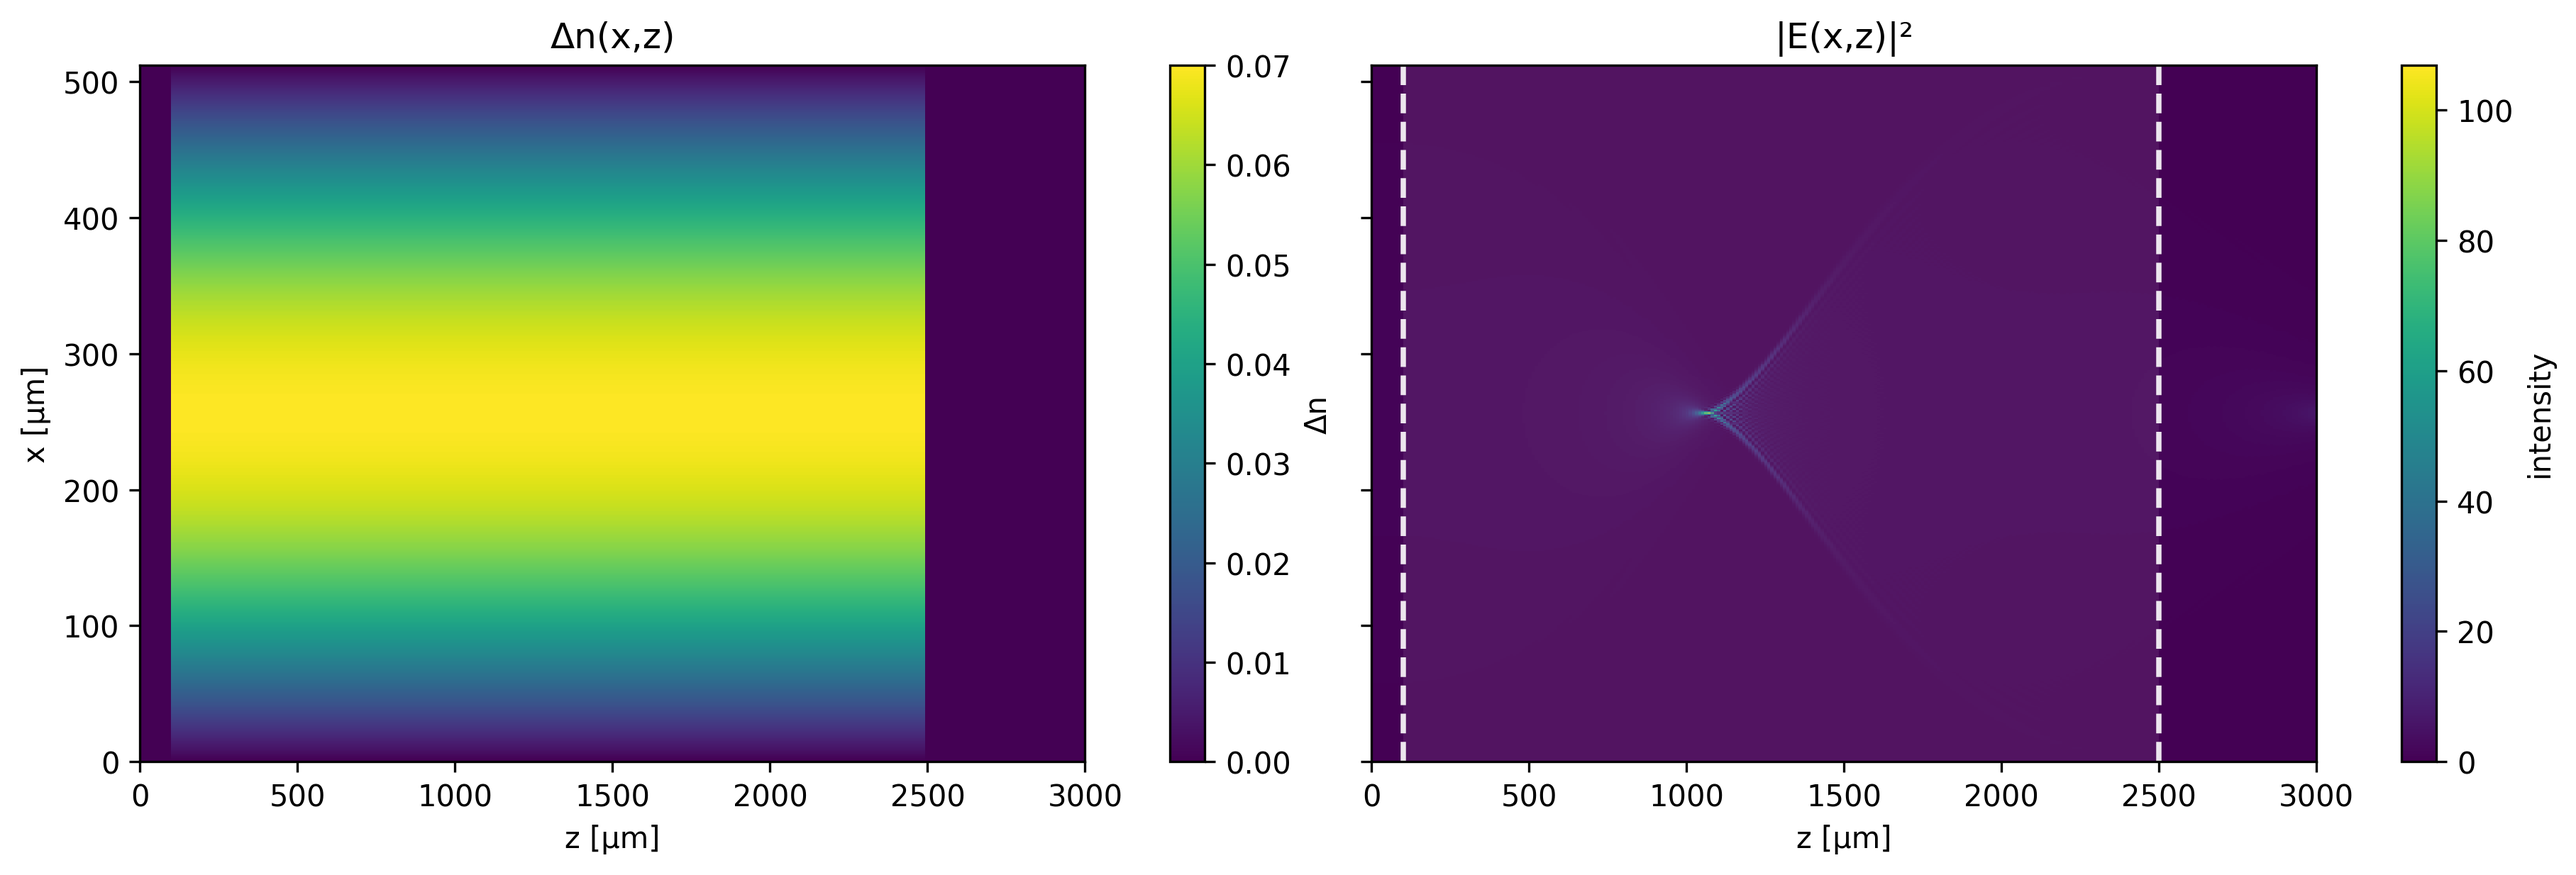
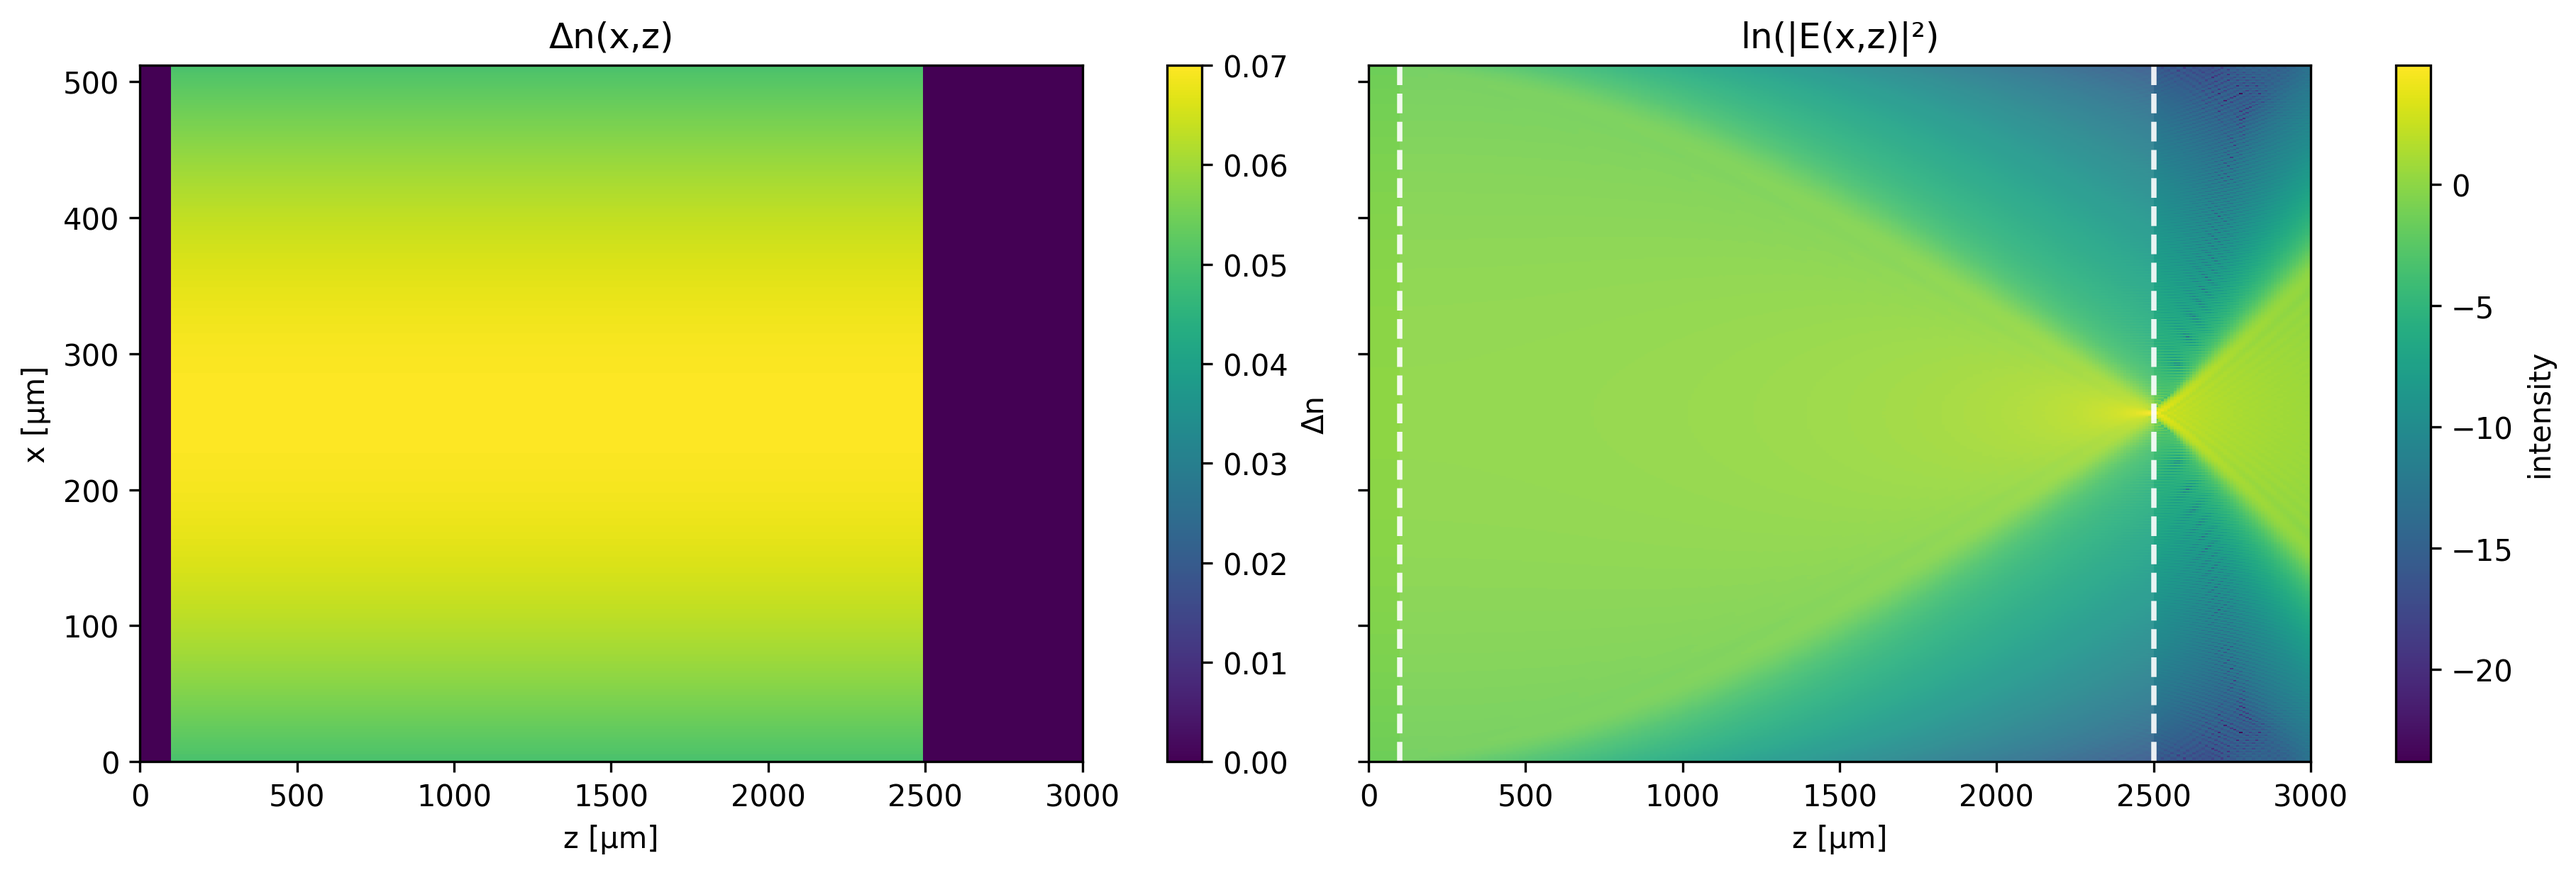
v0.1.3

diff --git a/beamprop_pkg/beamprop/fields.py b/beamprop_pkg/beamprop/fields.py
@@ -47,14 +47,46 @@ def grin_prism_n_xz(X, Z, n0=1.5, **kw):
     return n0 + grin_prism_dn_xz(X, Z, **kw)
 
 
-def grin_lens_dn_xz(
-    X, Z, Lx, amp=0.07, z_center=1300e-6, z_width=2400e-6, x_center=0.0
-):
+# def grin_lens_dn_xz(
+#     X, Z, Lx, amp=0.07, z_center=1300e-6, z_width=2400e-6, x_center=0.0
+# ):
+#     """
+#     Δn(x,z) = amp * cos(2*pi*x/Lx) * rect((z - z_center)/z_width)
+#     X, Z: meshgrids in meters (shape [nx, nz])
+#     Lx: full x-extent (e.g., 200e-6 for x ∈ [-100e-6, +100e-6])
+#     """
+#     cos_ramp = amp * np.cos(2 * np.pi * (X - x_center) / Lx)
+#     window = rect((Z - z_center) / z_width)
+#     return cos_ramp * window
+
+
+def grin_lens_dn_xz_cosine(X, Z, z_center, z_width, n_glass, dn0, x_center):
+    # compensates for dispersive effects
+    g = np.pi / (2.0 * z_width)
+    a = g * np.sqrt(n_glass / dn0)
+    rod = (np.abs((Z - z_center) / z_width) <= 0.5).astype(float)
+    dn = dn0 * np.cos(a * (X - x_center)) * rod  # Δn relative to n_ref
+    return dn
+
+
+# def grin_lens_dn_xz(
+#     X, Z, Lx, amp=0.07, z_center=1300e-6, z_width=2400e-6, x_center=0.0
+# ):
+#     # choose 'a' so that the rod length z_width is a quarter-pitch
+#     n0 = 1.0
+#     g = np.pi / (2.0 * z_width)  # quarter-pitch focus at exit
+#     a = g * np.sqrt(n0 / amp)  # link cosine to parabolic GRIN
+#     cos_ramp = amp * np.cos(a * (X - x_center))  # <-- use 'a', NOT 2π/Lx
+#     window = rect((Z - z_center) / z_width)
+#     return cos_ramp * window
+
+
+def nref_grid_from_rod(X, Z, z_center, z_width, n_glass, n_air=1.0):
     """
-    Δn(x,z) = amp * cos(2*pi*x/Lx) * rect((z - z_center)/z_width)
-    X, Z: meshgrids in meters (shape [nx, nz])
-    Lx: full x-extent (e.g., 200e-6 for x ∈ [-100e-6, +100e-6])
+    Returns an n_ref grid with shape == X == Z:
+      n_ref = n_air outside the rod,
+      n_ref = n_glass inside the rod (z_center ± z_width/2).
     """
-    cos_ramp = amp * np.cos(np.pi * (X - x_center) / Lx)
-    window = rect((Z - z_center) / z_width)
-    return cos_ramp * window
+    rod_mask = rect((Z - z_center) / z_width)  # 1 inside, 0 outside
+    n_ref = n_air + (n_glass - n_air) * rod_mask  # broadcast over X
+    return n_ref

diff --git a/beamprop_pkg/scripts/grin_lens_plots.py b/beamprop_pkg/scripts/grin_lens_plots.py
@@ -2,7 +2,11 @@ import matplotlib.pyplot as plt
 from pathlib import Path
 import numpy as np
 
-from beamprop_pkg.beamprop.fields import grin_lens_dn_xz, gaussian_beam_1d
+from beamprop_pkg.beamprop.fields import (
+    grin_lens_dn_xz_cosine,
+    gaussian_beam_1d,
+    nref_grid_from_rod,
+)
 from beamprop_pkg.beamprop.grids import Grid2D
 from beamprop_pkg.beamprop.propagators import BPM2D
 from beamprop_pkg.beamprop.absorbers import absorbing_field_1d
@@ -41,7 +45,10 @@ assert np.isclose(dz, dz__)
 
 # create 2D refractive index inhomogeneity mesh grid
 # same dimensions as X, Z
-nIN = grin_lens_dn_xz(X, Z, Lx, z_center=z0, z_width=zW, x_center=Lx / 2)
+nIN = grin_lens_dn_xz_cosine(
+    X, Z, z_center=z0, z_width=zW, n_glass=1.5, dn0=0.07, x_center=Lx / 2
+)
+nRef = nref_grid_from_rod(X, Z, z0, zW, n_glass=1.5)
 
 
 # perform propagation
@@ -51,7 +58,7 @@ E0 = gaussian_beam_1d(
     Lx / 2,
 )
 abs_mask = absorbing_field_1d(Nx, wAbs, gamma)
-bpm_obj = BPM2D(lambda0, dx, Nx, Nz, dz, abs_mask, nIN)
+bpm_obj = BPM2D(lambda0, dx, Nx, Nz, dz, abs_mask, nIN, nRef)
 Eout, snapshots = bpm_obj.propagate(E0, n2, store_every=1)
 
 # If snapshots is (Nz, Nx), transpose so shape matches nIN (Nx, Nz)
@@ -83,14 +90,14 @@ fig.colorbar(im0, ax=axs[0], label="Δn")
 
 # --- Right: |E(x,z)|² (propagation) ---
 im1 = axs[1].imshow(
-    snap,
+    np.log(snap),
     origin="lower",
     extent=extent,
     aspect="auto",
     cmap="viridis",
     interpolation="nearest",
 )
-axs[1].set_title("|E(x,z)|²")
+axs[1].set_title("ln(|E(x,z)|²)")
 axs[1].set_xlabel("z [µm]")
 fig.colorbar(im1, ax=axs[1], label="intensity")
 

diff --git a/beamprop_pkg/beamprop/propagators.py b/beamprop_pkg/beamprop/propagators.py
@@ -17,17 +17,13 @@ class BPM2D:
     nz: int
     dz: float  # step [m]
     absorber_mask: np.ndarray  # [nx] mask (<=1)
-    n_field: np.ndarray  # [nx, nz] refractive index (>=1)
-    # gate_func: Callable
-    # z0: float
-    # w: float
-    # ramp: float
+    n_field: np.ndarray  # [nx, nz] inhomogeneous contribution to refractive index (>=1)
+    n_ref: np.ndarray  # [nx, nz] DC contribution to refractive index (>=1)
 
     def __post_init__(self):
         self.k0 = k0_from_lambda(self.wavelength)
         # 1D transverse kx for the 1-D FFT
         self.kx = 2 * np.pi * np.fft.fftshift(np.fft.fftfreq(self.nx, d=self.dx))
-        self.kz = np.sqrt(np.maximum(0.0, self.k0**2 - self.kx**2))
 
     def propagate(self, E0, n2=0.0, store_every=0) -> Tuple[np.ndarray, np.ndarray]:
         """
@@ -52,6 +48,8 @@ class BPM2D:
             )
 
             # diffract
+            self.k = self.n_ref[:, it] * self.k0
+            self.kz = np.sqrt(np.maximum(0.0, self.k**2 - self.kx**2))
             E = ifft1c(Er * np.exp(-1j * self.kz * self.dz))
 
             # Apply absorber

diff --git a/beamprop_pkg/beamprop/version.py b/beamprop_pkg/beamprop/version.py
@@ -1,1 +1,1 @@
-__version__ = "0.1.2"
+__version__ = "0.1.3"
